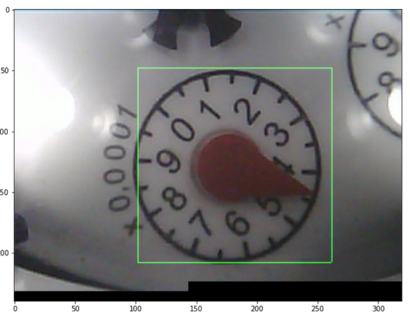
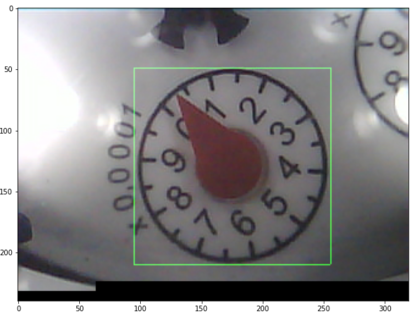
resizing images. updating readme

diff --git a/WaterThingy/README.md b/WaterThingy/README.md
@@ -1,11 +1,8 @@
 # WaterThingy
 
-This device will observe an analog water meter and report consumption through MQTT messages.
+This device will observe an analog water meter and report consumption through MQTT messages. A camera module (ESP-32-CAM) is used to observe one of the rotating arrow in the analog water meter. The device will continiously take pictures, do image analysis and report changes as consumption in liters.
 
-A camera module (ESP-32-CAM) is used to observe the rotating arrow in the analog water meter.
-The device will continiously take pictures, do image analysis and report changes as consumption in liters.
-
-The gauge arrow rotates one lap per 10 liters of consumption. The consumption is calculated from the angular difference between two consecutive images. 
+The gauge arrow rotates one lap per 10 liters of consumption. The consumption is calculated from the angular difference between two consecutive images. The camera module is mounted on a 3D-printed camera mount with a standard smart-phone macro lens. Some white leds are connected to provide some light inside the camera mount.
 
 ![setup](setup.png)
 
@@ -23,7 +20,7 @@ To measure consumption, the angle of a gauge arrow is found by taking an image o
    ![stage1](stage3.png)
 5. With the saturation only image, a filter is rotated 360&deg; around the center of the image. The filter is rotated 1&deg; per iteration.  
    ![](stage4.png)  
-   *The line is the filter position where the greatest sum was calculated.*
+   *The line is the filter position where the greatest filter sum was calculated.*
 
 
 ## MQTT messages
@@ -41,7 +38,9 @@ Example:
 }
 ```
 
-## Configure device
+## Calibration
+The bounding box must be set such that the center of the observed gauge is positioned in the center. The whole gauge should fit inside the bounding box. The filter shold be set suck that the center circle is ignored while the tip of the gauge arrow is included.
+
 The following parameters can be configured through GET requests:
 `capture_x` : The x coordinate for the upper left corner of the bounding box  
 `capture_y` : The y coordinate for the upper left corner of the bounding box  
